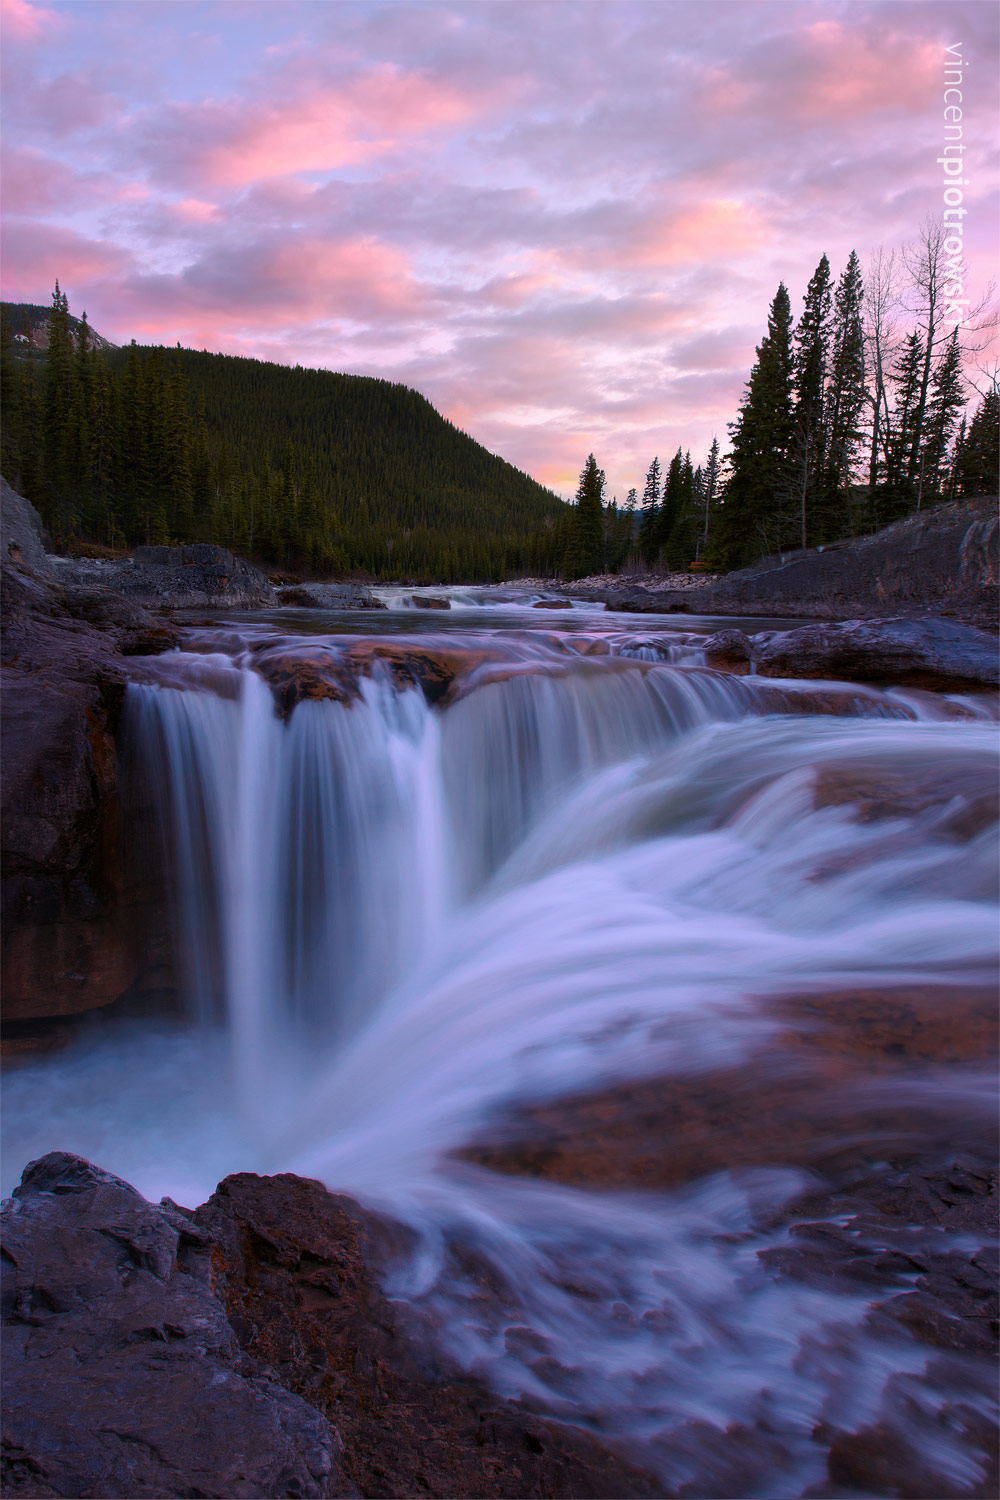
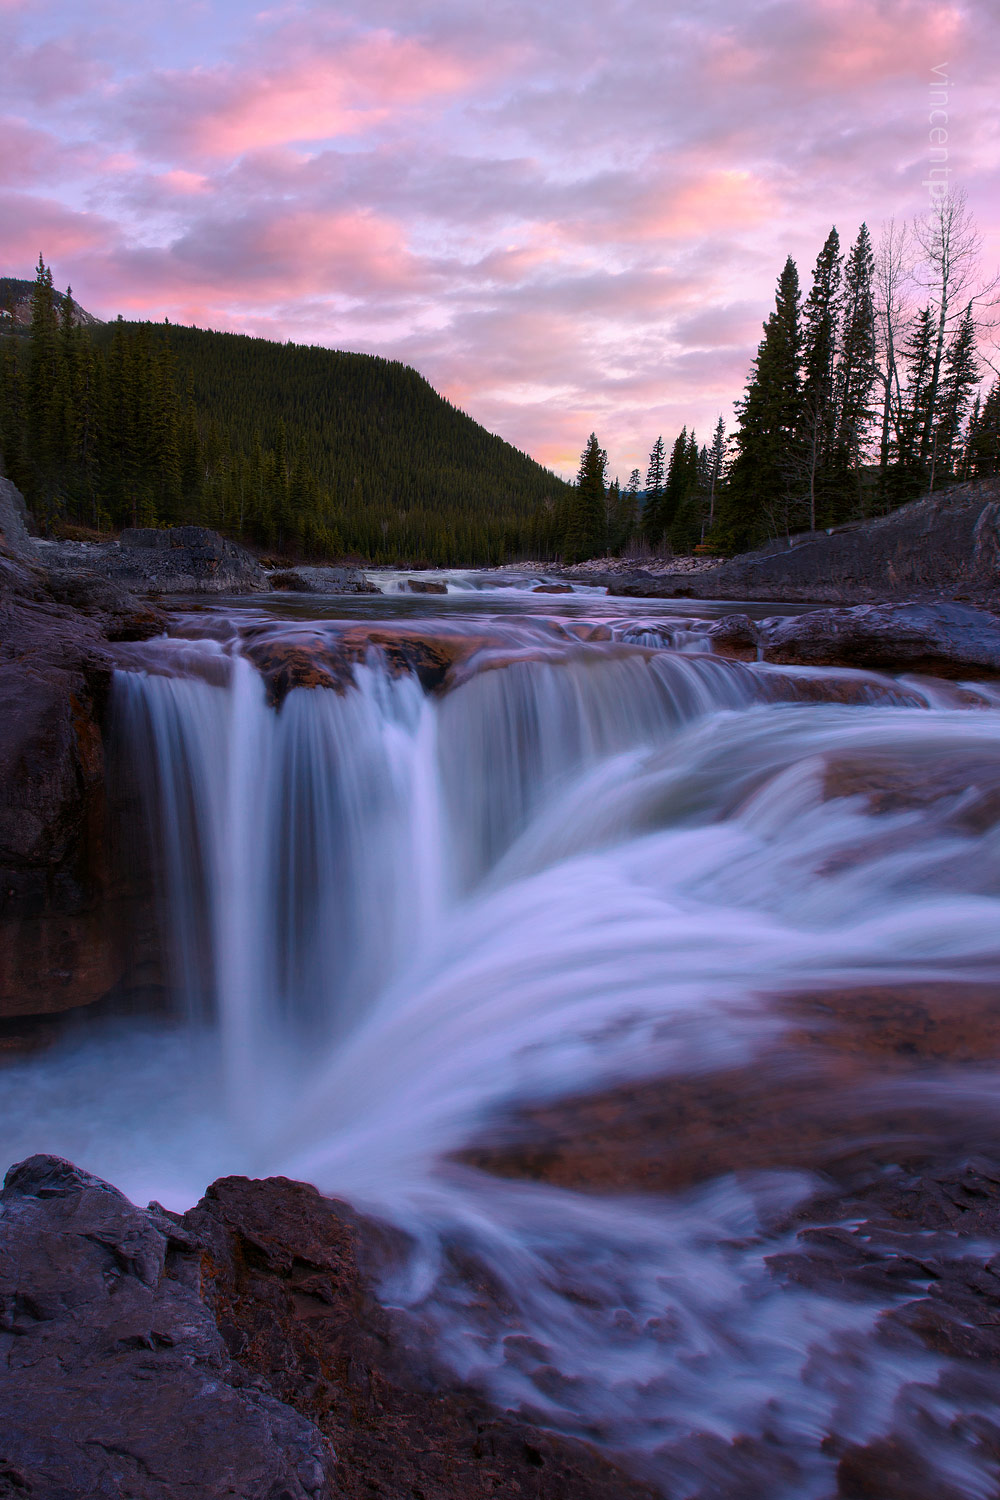
portrait images on different background

diff --git a/_includes/head.html b/_includes/head.html
@@ -14,6 +14,7 @@
   <meta property="og:image"              content="{% if page.thumbnail %}{{ 'http://birdnerds.ca/images/' | prepend: site.baseurl | append: page.thumbnail | replace:'-sm.','-lg.' }}{% else %}{{ 'http://birdnerds.ca/images/' | prepend: site.baseurl | append: 'thumb-website.png' }}{% endif %}" />
 
   <link href="https://fonts.googleapis.com/css?family=Raleway:400,700" rel="stylesheet">
+  <link href="https://fonts.googleapis.com/css?family=Lora" rel="stylesheet">
 
   <link rel="stylesheet" href="{{ '/css/main.css' | prepend: site.baseurl }}">
   <link rel="canonical" href="{{ page.url | replace:'index.html','' | prepend: site.baseurl | prepend: site.url }}">

diff --git a/_sass/photo.scss b/_sass/photo.scss
@@ -26,7 +26,7 @@
 }
 
 .container-image.photo img {
-    max-height: 791px;
+    max-height: 840px;
 }
 
 .link-prev, .link-next {
@@ -48,7 +48,7 @@
 }
 
 .link-prev:before, .link-next:after {
-    background: #333333;
+    background: $black;
     border-radius: 7px;
     color: $white;
     content: $angle-left;
@@ -74,6 +74,10 @@
 
 .link-next:hover:after, .link-prev:hover:before {
     color: $orange;
+}
+
+.container-image.photo {
+    background: $dark-grey;
 }
 
 @media(max-width: 767px) {
